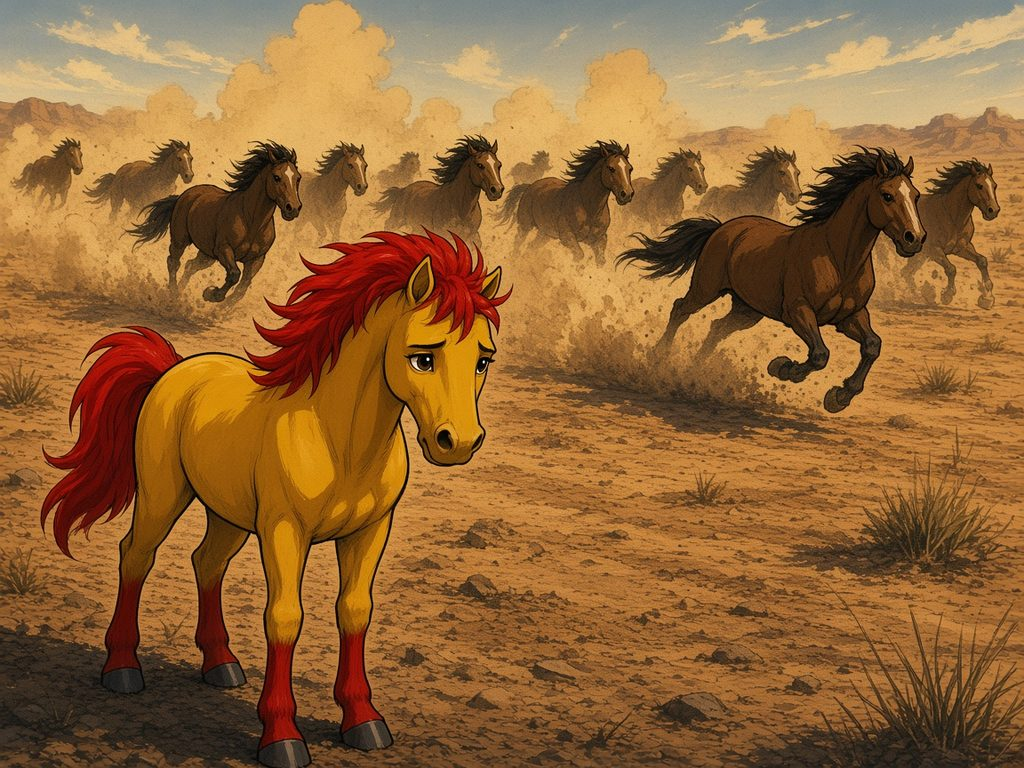
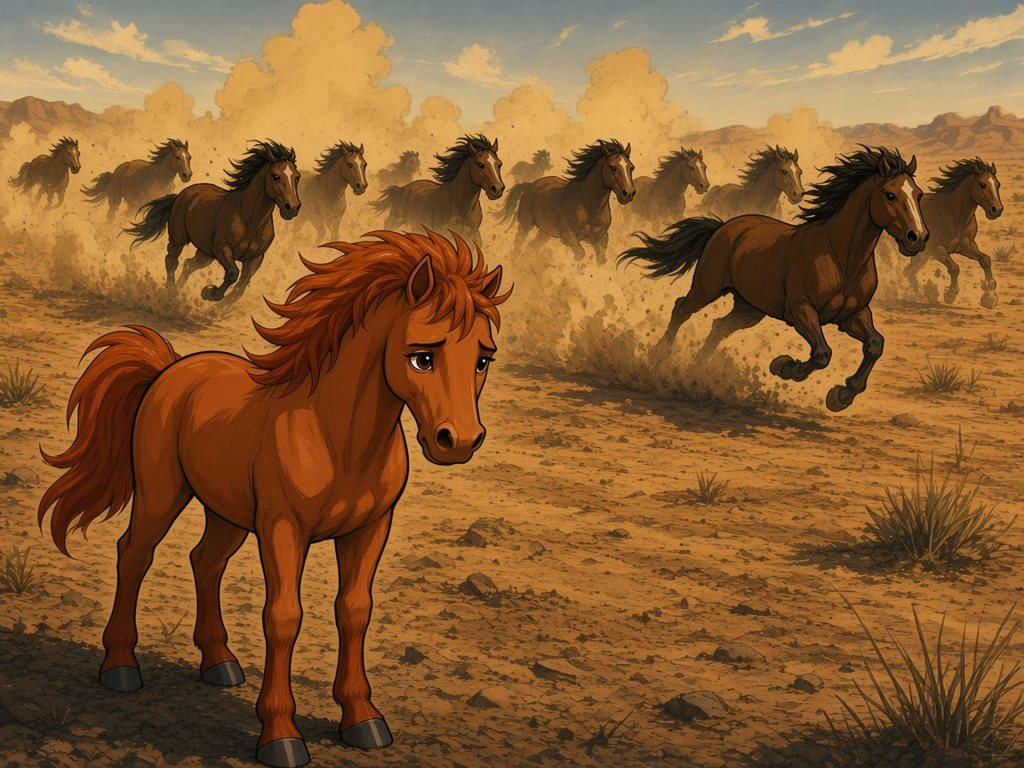
Rowdy's Story v2: chestnut Rowdy ch1-7, new Taken chapter, Fire Horse transformation, Rowdyland ending, wood background with chapter tint

diff --git a/rowdys-story/index.html b/rowdys-story/index.html
@@ -4,15 +4,16 @@
     <meta charset="utf-8">
     <meta name="viewport" content="width=device-width, initial-scale=1, viewport-fit=cover">
     <title>Rowdy's Story | Rowdyland</title>
-    <meta name="description" content="How a small, timid wild horse found his stride, found Pony Tale, became the Fire Horse, and ran every horse home to Rowdyland.">
+    <meta name="description" content="How a small, timid wild horse found his stride, found Pony Tale, became the Fire Horse, and built Rowdyland for every horse he set free.">
     <meta name="theme-color" content="#121833">
     <link rel="icon" href="../favicon.ico?v=2" sizes="any">
     <link rel="icon" href="../favicon-32.png?v=2" sizes="32x32" type="image/png">
     <link rel="apple-touch-icon" href="../apple-touch-icon.png?v=2">
     <link rel="preload" href="../fonts/Fraunces.woff2" as="font" type="font/woff2" crossorigin>
-    <link rel="stylesheet" href="story.css?v=story2">
+    <link rel="stylesheet" href="story.css?v=story4">
   </head>
   <body>
+    <div class="sky" aria-hidden="true"></div>
     <header class="fv-top">
       <a class="back" href="../#map-open">&#8592; Back to the map</a>
       <a class="mini-cta" href="#tickets">Tickets</a>
@@ -25,36 +26,40 @@
         <p class="scroll-cue" aria-hidden="true">Saddle up &#8595;</p>
       </section>
       <section class="chapter" id="wild">
-        <figure class="art reveal"><picture><source srcset="art/ch1-wild.webp?v=1" type="image/webp"><img src="art/ch1-wild.jpg?v=1" width="1024" height="768" loading="eager" decoding="async" alt="A small gold colt with a red mane watches a herd of wild horses race across the desert"></picture></figure>
-        <div class="card reveal"><span class="num">Chapter One</span><h2>The Wild Land</h2><p>Out in the wild land, horses race each other just for the thrill of it. No jockeys. No tack. No whips. Just hooves and dust. A small, timid colt named Rowdy wanted in, but the herd laughed him off. Too small. Too timid. Not fast enough.</p></div>
+        <figure class="art reveal"><picture><source srcset="art/ch1-wild.webp?v=3" type="image/webp"><img src="art/ch1-wild.jpg?v=3" width="1024" height="768" loading="eager" decoding="async" alt="A small reddish-brown chestnut colt watches a herd of wild horses race across the desert"></picture></figure>
+        <div class="card reveal"><span class="num">Chapter One</span><h2>The Wild Land</h2><p>Out in the wild land, horses race each other just for the thrill of it. No jockeys. No tack. No whips. Just hooves and dust. A small, timid chestnut colt named Rowdy wanted in, but the herd laughed him off. Too small. Too timid. Not fast enough.</p></div>
       </section>
       <section class="chapter" id="stride">
-        <figure class="art reveal"><picture><source srcset="art/ch2-stride.webp?v=1" type="image/webp"><img src="art/ch2-stride.jpg?v=1" width="1024" height="768" loading="lazy" decoding="async" alt="Rowdy the gold horse sprints across a field as glowing music rings burst from his hooves"></picture></figure>
+        <figure class="art reveal"><picture><source srcset="art/ch2-stride.webp?v=3" type="image/webp"><img src="art/ch2-stride.jpg?v=3" width="1024" height="768" loading="lazy" decoding="async" alt="Chestnut Rowdy sprints across a field as glowing music rings burst from his hooves"></picture></figure>
         <div class="card reveal"><span class="num">Chapter Two</span><h2>Finding the Stride</h2><p>So Rowdy ran alone. Every day, all day, sprinting the open field, chasing a speed he could never catch. Then one day, mad as a hornet and twice as stubborn, he locked into a stride that made a rhythm. A beat. Rowdy Hop music was born, and pure want carried him faster than any horse had ever gone.</p></div>
       </section>
       <section class="chapter" id="ancestors">
-        <figure class="art reveal"><picture><source srcset="art/ch3-ancestors.webp?v=1" type="image/webp"><img src="art/ch3-ancestors.jpg?v=1" width="1024" height="768" loading="lazy" decoding="async" alt="Rowdy stands on a desert ridge as starlight spirit horses look down from the night sky"></picture></figure>
+        <figure class="art reveal"><picture><source srcset="art/ch3-ancestors.webp?v=3" type="image/webp"><img src="art/ch3-ancestors.jpg?v=3" width="1024" height="768" loading="lazy" decoding="async" alt="Chestnut Rowdy stands on a desert ridge as starlight spirit horses look down from the night sky"></picture></figure>
         <div class="card reveal"><span class="num">Chapter Three</span><h2>The Night of the Ancestors</h2><p>He ran into the sunset and kept going until the stars came out. That night the ancestors looked down from the sky and told him he would be the fastest horse of all time. They gave him his name. Rowdy.</p></div>
       </section>
       <section class="chapter" id="pony-tale">
-        <figure class="art reveal"><picture><source srcset="art/ch4-pony-tale.webp?v=1" type="image/webp"><img src="art/ch4-pony-tale.jpg?v=1" width="1024" height="768" loading="lazy" decoding="async" alt="Rowdy and Pony Tale, a white horse, stand nose to nose at a moonlit desert oasis"></picture></figure>
+        <figure class="art reveal"><picture><source srcset="art/ch4-pony-tale.webp?v=3" type="image/webp"><img src="art/ch4-pony-tale.jpg?v=3" width="1024" height="768" loading="lazy" decoding="async" alt="Chestnut Rowdy and Pony Tale, a white horse, stand nose to nose at a moonlit desert oasis"></picture></figure>
         <div class="card reveal"><span class="num">Chapter Four</span><h2>Pony Tale</h2><p>Then he saw her. A white horse on the moonlit horizon. Pony Tale. He chased her clear across the desert to the oasis where she lived alone. Love at first sight. She was every bit as fast as him, and when they ran together the music went wild. Rowdy never went home that night.</p></div>
       </section>
       <section class="chapter" id="captured">
-        <figure class="art reveal"><picture><source srcset="art/ch5-captured.webp?v=2" type="image/webp"><img src="art/ch5-captured.jpg?v=2" width="1024" height="768" loading="lazy" decoding="async" alt="Rowdy, wearing a number 1 saddle cloth, stands alone at the racetrack fence, mourning the wild desert beyond"></picture></figure>
+        <figure class="art reveal"><picture><source srcset="art/ch5-captured.webp?v=3" type="image/webp"><img src="art/ch5-captured.jpg?v=3" width="1024" height="768" loading="lazy" decoding="async" alt="Chestnut Rowdy, wearing a number 1 saddle cloth, stands alone at the racetrack fence, mourning the wild desert beyond"></picture></figure>
         <div class="card reveal"><span class="num">Chapter Five</span><h2>Captured</h2><p>The racing industry rounds up wild horses and trains them to race. They took Rowdy. He kicked, he bucked, he did not belong. Some horses there were rich, cocky star athletes. Most were trapped. The only way out was to beat every one of them, so he did, and became the number one racehorse in the land. But deep in the racing years, Rowdy accepted his fate. At night he could still hear the wild herd's beat, but his own stride had gone quiet. He did not recognize the horse with a number on his back staring up from the water trough. He mourned the wild horse he used to be.</p></div>
       </section>
       <section class="chapter" id="plan">
-        <figure class="art reveal"><picture><source srcset="art/ch6-plan.webp?v=2" type="image/webp"><img src="art/ch6-plan.jpg?v=2" width="1024" height="768" loading="lazy" decoding="async" alt="Pony Tale, wearing number 7, edges past a stunned Rowdy at the finish line"></picture></figure>
-        <div class="card reveal"><span class="num">Chapter Six</span><h2>The Plan</h2><p>Pony Tale came all that way to find him, but she could not get near him in the stables. So she got herself captured on purpose and won over a trainer to get into racing. Racing him was the only way to get next to him. So she lined up beside him and beat him by a nose, stealing a win from the number one horse in the land. Rowdy told her he was not the horse she fell for anymore. She told him that was okay. He had become better, and he was going to help so many others. Then she told him her plan to get him out.</p></div>
+        <figure class="art reveal"><picture><source srcset="art/ch6-plan.webp?v=3" type="image/webp"><img src="art/ch6-plan.jpg?v=3" width="1024" height="768" loading="lazy" decoding="async" alt="Pony Tale, wearing number 7, edges past a stunned chestnut Rowdy at the finish line"></picture></figure>
+        <div class="card reveal"><span class="num">Chapter Six</span><h2>The Plan</h2><p>Pony Tale came all that way to find him, but she could not get near him in the stables. So she got herself captured on purpose and won over a trainer to get into racing. Racing him was the only way to get next to him. So she lined up beside him and beat him by a nose, stealing a win from the number one horse in the land. Rowdy told her he was not the horse she fell for anymore. She told him that was okay. He had become better, and he was going to help so many others. Then she told him her plan to get them both out.</p></div>
+      </section>
+      <section class="chapter" id="taken">
+        <figure class="art reveal"><picture><source srcset="art/ch7-taken.webp?v=3" type="image/webp"><img src="art/ch7-taken.jpg?v=3" width="1024" height="768" loading="lazy" decoding="async" alt="Behind a locked stall gate, chestnut Rowdy rears in fury as stable hands lead Pony Tale away into the night"></picture></figure>
+        <div class="card reveal"><span class="num">Chapter Seven</span><h2>Taken</h2><p>They found out. They hurt Pony Tale and punished her for it. Then they loaded her up and sent her to the place no horse wants to go. The slaughterhouse. Rowdy watched her go from behind a locked gate. There was no more long game. No more waiting. Rowdy was angry, and there was no time left.</p></div>
       </section>
       <section class="chapter" id="firehorse">
-        <figure class="art reveal"><picture><source srcset="art/ch7-firehorse.webp?v=2" type="image/webp"><img src="art/ch7-firehorse.jpg?v=2" width="1024" height="768" loading="lazy" decoding="async" alt="Rowdy blazes in flames as the Fire Horse, breaking the finish line ribbon under a glowing gold trophy"></picture></figure>
-        <div class="card reveal"><span class="num">Chapter Seven</span><h2>The Fire Horse</h2><p>Rowdy dug deeper than he ever had. He caught fire. He became the Fire Horse, went for the Triple Crown gold, and took it.</p></div>
+        <figure class="art reveal"><picture><source srcset="art/ch8-firehorse.webp?v=3" type="image/webp"><img src="art/ch8-firehorse.jpg?v=3" width="1024" height="768" loading="lazy" decoding="async" alt="Rowdy, now gold with a blazing red mane and red legs, bursts through the finish ribbon in flames under a glowing gold trophy"></picture></figure>
+        <div class="card reveal"><span class="num">Chapter Eight</span><h2>The Fire Horse</h2><p>That night, Rowdy ran on pure determination. His stride locked in to a new level all over again, harder and faster than the day he first found the beat, and he caught fire. The flames burned away the chestnut colt and left him gold, with a mane and legs as red as the fire itself. He became the Fire Horse. He went for the Triple Crown gold, he took it, and he ran straight on to rescue Pony Tale.</p></div>
       </section>
       <section class="chapter" id="free">
-        <figure class="art reveal"><picture><source srcset="art/ch8-free.webp?v=1" type="image/webp"><img src="art/ch8-free.jpg?v=1" width="1024" height="768" loading="lazy" decoding="async" alt="Rowdy and Pony Tale lead a stampede of freed horses through broken gates toward a glowing festival"></picture></figure>
-        <div class="card reveal"><span class="num">Chapter Eight</span><h2>Free</h2><p>Then he busted down the gates and kicked down the walls. Every horse ran free, and they all ran home to Rowdyland to live and roam free forever.</p></div>
+        <figure class="art reveal"><picture><source srcset="art/ch9-rowdyland.webp?v=3" type="image/webp"><img src="art/ch9-rowdyland.jpg?v=3" width="1024" height="768" loading="lazy" decoding="async" alt="Gold Rowdy and white Pony Tale stand nose to nose above a western oasis where freed horses roam and Rowdyland is being built"></picture></figure>
+        <div class="card reveal"><span class="num">Chapter Nine</span><h2>Free</h2><p>Then he busted down the gates and kicked down the walls. Every horse ran free. Rowdy and Pony Tale led them all across the desert to a western oasis, and together they built Rowdyland. Now the festival happens there every year, and Rowdy and Pony Tale live happily ever after.</p></div>
       </section>
       <section class="cta" id="tickets">
         <h2>Run home to Rowdyland</h2>
@@ -71,7 +76,7 @@
         <form class="signup" onsubmit="var n=this.previousElementSibling;if(n&&n.classList.contains('poster-note'))n.hidden=true" action="https://app.kit.com/forms/9130714/subscriptions" method="post" target="_blank"><input type="email" name="email_address" placeholder="Enter your email" aria-label="Email address" autocomplete="email" required><button type="submit" class="big-cta small">Reserve my spot</button><p class="signup-msg" role="status" aria-live="polite"></p></form>
       </div>
     </div>
-    <script src="story.js?v=story3" defer></script>
+    <script src="story.js?v=story4" defer></script>
     <script>(function(){var s=document.querySelectorAll('.chapter');if(!('IntersectionObserver' in window)){s.forEach(function(e){e.classList.add('in')});return}var o=new IntersectionObserver(function(es){es.forEach(function(e){if(e.isIntersecting){e.target.classList.add('in');o.unobserve(e.target)}})},{threshold:0.15});s.forEach(function(e){o.observe(e)})})();</script>
   </body>
 </html>

diff --git a/rowdys-story/story.css b/rowdys-story/story.css
@@ -1,8 +1,8 @@
 @font-face { font-family: "Fraunces"; src: url("../fonts/Fraunces.woff2") format("woff2"); font-weight: 100 900; font-display: swap; }
 :root { --ink: #fff8ec; --pearl: #fbf1dc; --pink: #ffcf5a; --gold: #ffd98a; --plum: #121833; --wine: #5a1414; color-scheme: dark; }
 * { box-sizing: border-box; }
-html { scroll-behavior: smooth; background: var(--plum); overflow-x: clip; }
-body { margin: 0; background: linear-gradient(#121833, #2a1a2e 50%, #121833); color: var(--ink); font-family: Fraunces, Georgia, serif; }
+html { scroll-behavior: smooth; background: #1a120c; overflow-x: clip; }
+body { margin: 0; background: transparent; color: var(--ink); font-family: Fraunces, Georgia, serif; }
 img { display: block; max-width: 100%; height: auto; }
 .fv-top { position: fixed; z-index: 5; top: 0; left: 0; right: 0; display: flex; justify-content: space-between; align-items: center; padding: 0.8rem 1rem; padding-top: max(0.8rem, env(safe-area-inset-top)); }
 .back, .mini-cta { font-weight: 700; color: var(--ink); text-decoration: none; padding: 0.45rem 0.9rem; border-radius: 999px; background: rgba(18, 24, 51, 0.82); border: 2px solid rgba(255, 215, 140, 0.6); }
@@ -61,3 +61,9 @@ h1 { margin: 0.4rem 0 1rem; font-size: clamp(2.6rem, 10vw, 5.5rem); line-height:
 .reserve-poster { padding: 3.2rem 3.4rem 4.2rem; }
 .reserve-poster h2 { margin: 0.6rem 0 0.9rem; }
 .big-cta.small { font-size: clamp(1.05rem, 4.5vw, 1.4rem); padding: 0.8rem 1.6rem; animation: none; }
+
+/* story-v2 background: barn wood + sky that shifts dawn > night > fire > gold */
+.sky { position: fixed; inset: 0; z-index: -1; pointer-events: none; background: linear-gradient(rgba(20,12,8,0.25), rgba(20,12,8,0.4)), url("art/bg-wood.webp?v=1") center/420px repeat; }
+.sky::after { content: ""; position: absolute; inset: 0; background: var(--tint, linear-gradient(180deg, rgba(240,150,80,0.35), rgba(120,60,40,0.15))); mix-blend-mode: overlay; transition: background 1.2s; }
+main { position: relative; z-index: 0; }
+.art img { background: transparent; }

diff --git a/rowdys-story/story.js b/rowdys-story/story.js
@@ -28,3 +28,21 @@
   pop.addEventListener("click", function (e) { if (e.target === pop || e.target.closest(".sheet-close")) close(); });
   document.addEventListener("keydown", function (e) { if (!pop.hidden && e.key === "Escape") close(); });
 })();
+
+/* story-v2: shift background tint by chapter */
+(function () {
+  var sky = document.querySelector(".sky"); if (!sky || !("IntersectionObserver" in window)) return;
+  var T = {
+    wild: "linear-gradient(180deg, rgba(255,170,90,0.45), rgba(150,80,40,0.2))",
+    stride: "linear-gradient(180deg, rgba(255,120,70,0.45), rgba(120,50,90,0.25))",
+    ancestors: "linear-gradient(180deg, rgba(40,60,160,0.55), rgba(20,20,70,0.4))",
+    "pony-tale": "linear-gradient(180deg, rgba(60,80,170,0.5), rgba(30,30,80,0.35))",
+    captured: "linear-gradient(180deg, rgba(110,60,140,0.45), rgba(40,20,50,0.4))",
+    plan: "linear-gradient(180deg, rgba(180,40,40,0.4), rgba(60,20,30,0.35))",
+    taken: "linear-gradient(180deg, rgba(20,30,70,0.6), rgba(10,10,25,0.55))",
+    firehorse: "linear-gradient(180deg, rgba(255,90,20,0.6), rgba(200,40,10,0.45))",
+    free: "linear-gradient(180deg, rgba(255,200,80,0.6), rgba(230,140,40,0.4))"
+  };
+  var o = new IntersectionObserver(function (es) { es.forEach(function (e) { if (e.isIntersecting && T[e.target.id]) sky.style.setProperty("--tint", T[e.target.id]); }); }, { rootMargin: "-45% 0px -45% 0px" });
+  Object.keys(T).forEach(function (id) { var el = document.getElementById(id); if (el) o.observe(el); });
+})();
